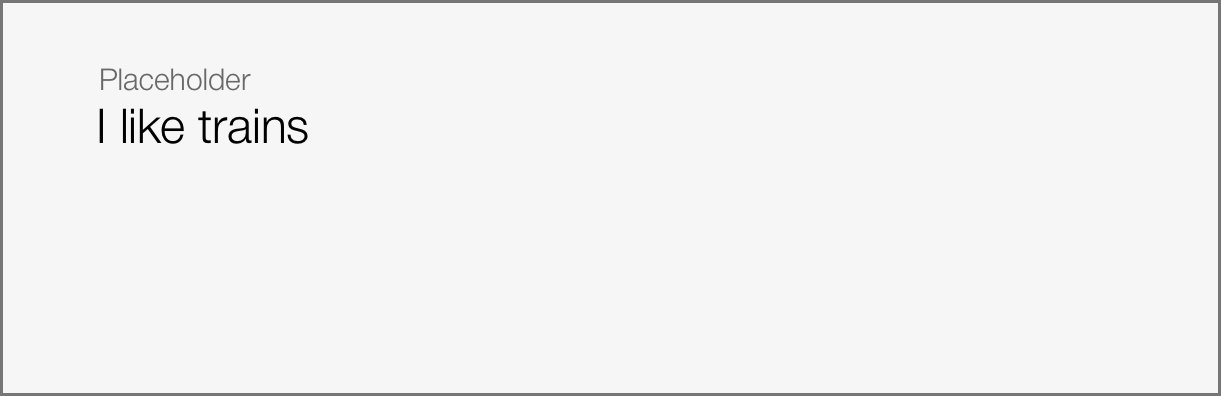
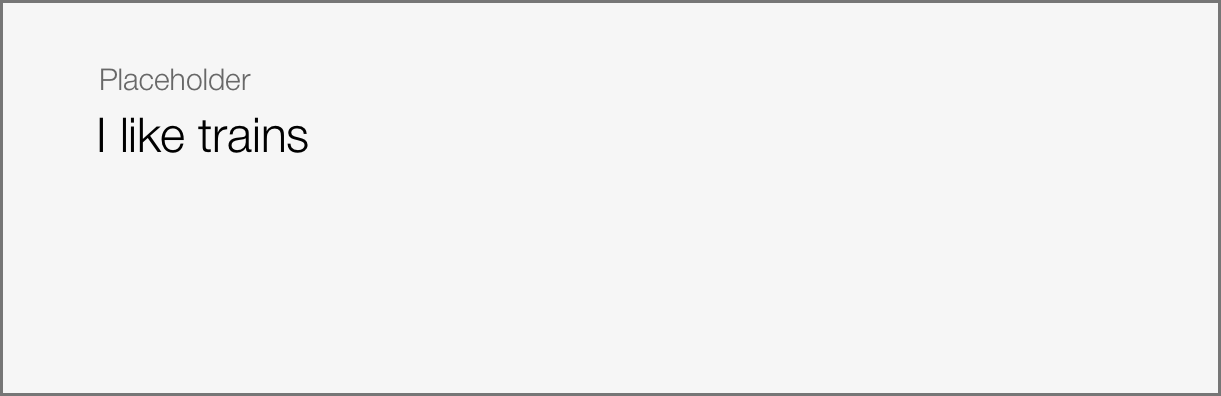
fix: SBBTextArea palceholder size

Changed region(s): [[0.0934, 0.2727, 0.249, 0.3939]]

diff --git a/SBBDesignSystemMobileSwiftUI/Views/SBBTextArea.swift b/SBBDesignSystemMobileSwiftUI/Views/SBBTextArea.swift
@@ -103,12 +103,12 @@ public struct SBBTextArea: View {
             view.textContainerInset = UIEdgeInsets(top: 17, left: 11, bottom: 16, right: 11)
             view.backgroundColor = UIColor.clear
             let placeholderScaledFontSize = UIFontMetrics.default.scaledValue(for: placeholderFontSize)
-            view.textContainerInset = UIEdgeInsets(top: placeholderScaledFontSize + 7, left: 11, bottom: 16, right: 11)
+            view.textContainerInset = UIEdgeInsets(top: placeholderScaledFontSize * 2, left: 11, bottom: 16, right: 11)
             
             if let placeholder = label {
                 descriptionLabel.text = NSLocalizedString(placeholder, comment: "")
             }
-            let descriptionScaledFontSize = UIFontMetrics.default.scaledValue(for: 10)
+            let descriptionScaledFontSize = UIFontMetrics.default.scaledValue(for: placeholderFontSize)
             descriptionLabel.font = UIFont(name: "SBBWeb-Light", size: descriptionScaledFontSize)
             descriptionLabel.textColor = UIColor(named: "placeholder", in: Helper.bundle, compatibleWith: nil)
             view.addSubview(descriptionLabel)
